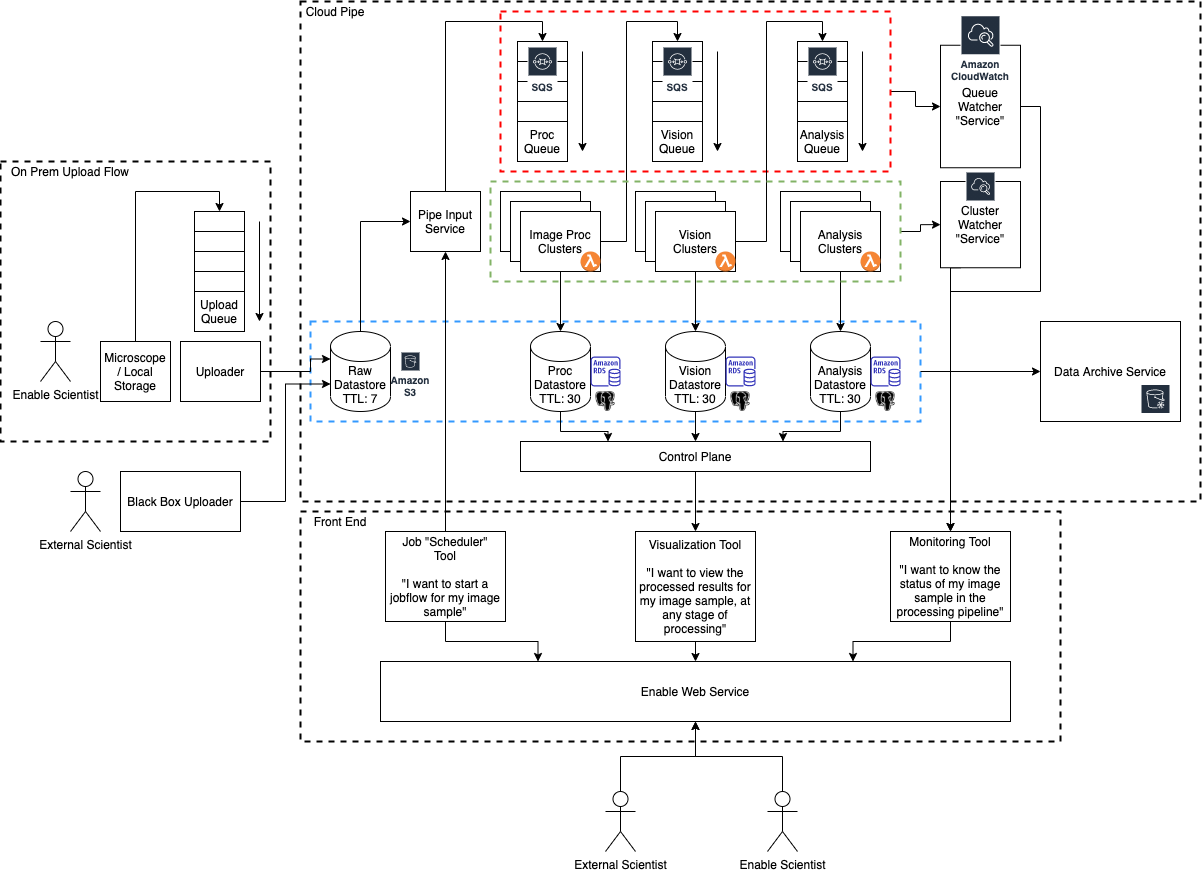
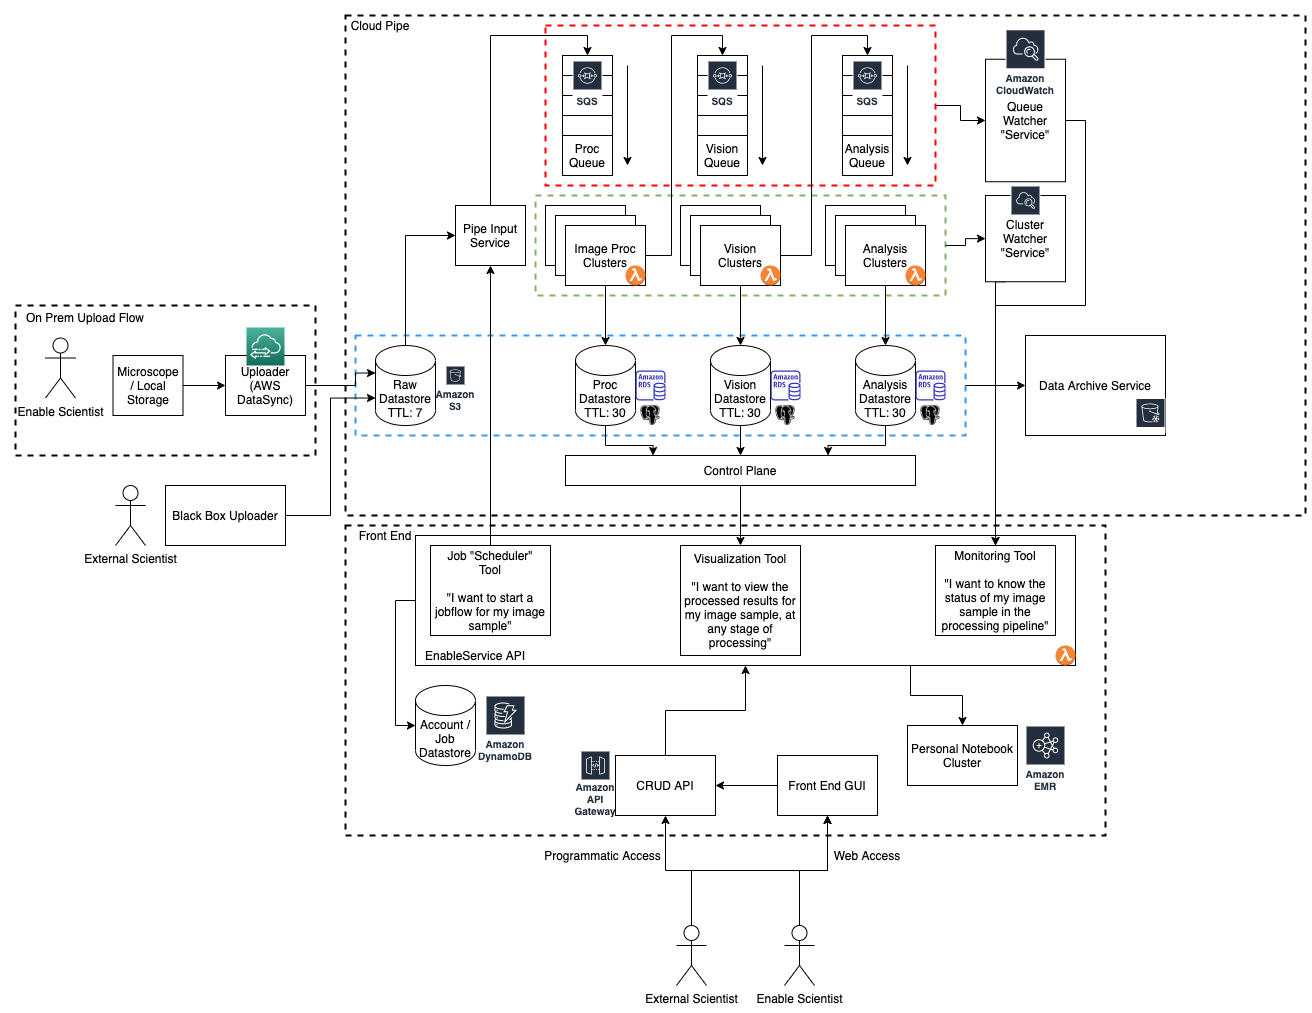
Complete first draft of design doc

diff --git a/README.md b/README.md
@@ -1,6 +1,6 @@
 # EnableDataPipe
 
-### Part 1: Backend Design
+## Part 1: Backend Design
 
 **Background**
 * At Enable, being able to process and transform data is core to our product.
@@ -41,7 +41,9 @@ Each component will be broken down in more detail below.
 This initial component of the architecture is decoupled from the rest of the processing and visualizing architecture. 
 It is the only component that treats our scientists at Enable Medicine differently than the rest of our user base.
 
-By initial estimates of 15TB of data uploaded into the cloud each week, AWS DataSync seems like an easy way to ensure reliable data transfer to the cloud. Once in the cloud, the rest of our pipeline will process image data more easily. Using the usage calculator, 60TB of data per month results in only $768 monthly. DataSync also comes with a scheduling agent that automatically detects changes in our local filesystem. 
+By initial estimates of 15TB of data uploaded into the cloud each week, AWS DataSync seems like an easy way to ensure reliable data transfer to the cloud.
+Once in the cloud, the rest of our pipeline will process image data more easily. Using the usage calculator, 60TB of data per month results in only $768 monthly. 
+DataSync also comes with a scheduling agent that automatically detects changes in our local filesystem. 
 
 This is most likely the simplest component in terms of design, but it is a surefire bottleneck in the whole process. 
 Uploading a single TB over 1 Gbit/s speeds still takes ~2.5 hours to upload.
@@ -49,7 +51,7 @@ We can only reliably scale up to 9TBs per day, or 270TB per month, before we nee
 
 Note that my design for non-Enable scientists is as follows:
 
-![Black Box](images/black_box_diagram.png)
+![Black Box](images/black_box.png)
 
 This complexity is intentionally ignored here. If we want users to be able to upload their data from their local storage to our cloud storage, we will need to further develop a working solution.
 
@@ -62,6 +64,8 @@ This processing pipeline is made up of two components:
 This is an event-driven architecture, where each stage in the pipe is idle until the feed queue is populated.
 
 The next section defines where events are generated and how they propagate through the pipe.
+
+![Pipeline Overview](images/data_pipeline_overview.png)
 
 #### Event Lifecycle
 1. User specifies an image to run through the data pipe
@@ -85,7 +89,7 @@ Each processing stage is made up of three components:
 2. Processing Cluster
 3. Output datastore
 
-![Process Stage](images/process_stage.png)
+![Process Stage](images/stage_stack.png)
 
 The "cluster" will consist of a Lambda step function that spins up an EMR cluster to process data. It will sit idle until the queue is populated. It will consume from the queue, and when output is complete, it will push to its individual datastore.
 
@@ -100,7 +104,11 @@ By using Lambda to schedule and run EMR clusters, we can scale our EMR compute p
 
 3. Output data can be archived
 
-Each stage will output to our TK RDS and S3 instances. With a reasonable TTL, we'll archive each stage's output data to S3 Glacier, where we can store user's data for much longer and much cheaper. Users can still access potentially hundreds of TBs of data, and we don't have to persist them in low-latency settings due to their unpredictable and infrequent access patterns.
+Each stage will output to our S3 and replicate to our RDS instances.
+With a reasonable TTL, we'll archive each stage's output data to S3 Glacier, where we can store user's data for much longer and much cheaper.
+Users can still access potentially hundreds of TBs of data, and we don't have to persist them in low-latency settings due to their unpredictable and infrequent access patterns.
+
+![Data Archive Step](images/data_archive.png)
 
 #### Processing Watchers
 There are a couple different monitoring systems that makes the workflow transparent. Users will be able to see what the status of their job is, and service owners will be able to monitor the status of each stage of the pipeline independently. More of these watchers can be created easily in order to provide users greater insight into their job status. In the future, we may begin to process and aggregate the data from these watchers to provide more insight over the service itself.
@@ -114,6 +122,8 @@ For service owners:
 For users:
 * Provides data on status of scheduled events (pending resources, in process, or complete)
 
+![Queue Watcher](images/queue_watcher.png)
+
 ##### Cluster Watcher
 
 For service owners:
@@ -121,5 +131,90 @@ For service owners:
 
 For users:
 * Provides logs from processing steps
+* Allows users to debug issues with custom pipeline stages
 
-### Processing / Output Monitoring
+![Cluster Watcher](images/cluster_watcher.png)
+
+### Visualization / Customer Facing Service
+
+![Service Overview](images/service_overview.png)
+
+For Enable and non-Enable users of our data pipeline service, they will be able to schedule, monitor, and analyze the results of jobs via
+a simple CRUD API. I have gone into few details about the design of said service, other than noting a datastore for customer access / job details,
+an interface modeled via API Gateway, and a basic Lambda service that will serve customer requests. This is hardly an in-depth design, and if given more time,
+I would more effectively break down the datasets into logical tables, and flesh out the front end GUI (in which I would need to do some research of webapps hosted on AWS).
+
+I've identified three "tools" that users will use, which will be hosted by our Lambda service.
+
+#### Job Scheduler Tool
+###### *"I want to start a jobflow for my image sample"*
+Users will be able to create jobs based on image data already present in the pipeline's datastores. This will enable them
+to schedule multiple jobs / processing flows based on the same image data simultaneously. This relies on the Pipe Input Service
+that I've defined as part of the data pipeline design.
+
+#### Visualization Tool
+###### "I want to view the processed results for my image sample, at any stage of processing"
+Users will be able to visualize image data present in any of the pipeline's datastores. This means that users will be able 
+to check on data as it flows through the pipe, either to validate it or to begin analysis while further processing is completed. This relies
+on multiple datastores that make up each stage in the pipeline.
+
+Each datastore would be visible to a user's personal EMR cluster. This cluster will host a Jupyter notebook that a user can use
+to interact with the data.
+
+I would advocate against an in-house visualization tool, since I assume the use cases for visualization are so broad. It would
+spread our team too thin if we were to develop this tool alongside the pipeline service.
+
+#### Monitoring Tool
+###### *"I want to know the status of my image sample in the processing pipeline"*
+Users will be able to see what progress is made on their scheduled jobs, and any potential errors that have occurred during processing.
+This will rely on the Queue and Cluster Watchers that I've defined as a part of the data pipeline.
+
+### Bottlenecks
+The first technical bottleneck we will run into is data transfer. I've mentioned above that at current scale, AWS Datasync will suffice,
+as long as we can guarantee stable gigabit network speeds. As the input scale increases, we will quickly need to find another solution
+to replace this. Jeff and I have discussed AWS Snowball, which would allow us to potentially transfer petabytes of data rapidly, but would force
+us to batch data transfer, leading to longer data transfer SLAs. A hybrid solution could be another possible option down the road.
+
+Due to the serverless nature of my pipeline design, there are few technical bottlenecks, as AWS will allow us to spin up a cluster for every job running in parallel.
+The concern here is cost, so without a proper idea of our budget, I can't say how much we can scale before running into trouble.
+It would be easy to tune our Lambda / EMR setup to reduce our overall cost, at the expense of longer processing times depending
+on queue length.
+
+Another bottleneck is data persistence, which I have addressed with the use of a data archival service like S3 Glacier. 
+Storing petabytes of data in numerous RDS instances is not feasible, so shrinking the amount of data we keep "cached" in RDS is necessary.
+
+### Optimizations
+Optimizations beyond scaling up our parallel clusters would be to identify processing that can be done in parallel, i.e.
+processing that does not depend on a previous processing step. Currently, the pipeline design is structured as if every stage
+depends on the last, but there are potential custom stages that users may want to run in parallel. Running these steps side-by-side could greatly speed up
+the delivery of users' desired output.
+
+Tuning the amount of data we store before archiving it would also increase speed. If we consider RDS to be a "cache" due to the low-latency
+interface it allows, increasing the amount of data it stores or caching the most used data will provide users a better experience.
+The trade-off here is of course cost. Archiving our data will reduce cost and burden on our service, at the expense of users accessing their data quickly.
+
+
+## Part 2: Coding
+
+### Notes on Coding Style
+These are some questions I would ask before publishing a code review:
+
+#### Strict Input Validation & Error 
+Should we err on the side of throwing exceptions when the data is incorrect? Or providing "empty" results? 
+i.e. throw ValueError when theoretical co-occurrence has 0s, or replace zero division with NaN or value that flags invalidity.
+  
+#### Unit Testing / Code Smell
+It was difficult to write the pairwise_logodds_ratio test with useful sample data. I ended up needing to "trust" my output
+and copy+paste floats to do direct comparison, or re-implement some of the functionality in the unit test. How should I pull
+in sample data without relying on the implementation I am testing?
+
+I opted for rewriting the last step of the algorithm since I could easily hardcode the actual_frequency and theo_cooccurrence
+as non-truncated single or double decimal floating point values.
+
+### Notes on Design
+The two steps documented in the prompt are split out into two top-level functions, that I test similarly to an API:
+* provide some valid input and ensure valid output
+* test with some different invalid input and ensure the failure behavior is as expected
+
+Depending on the environment this would be run in, I might change the structure of this code by wrapping it in a class,
+or leave it as a set of top-level functions to be run as steps in a transformation job definition.
